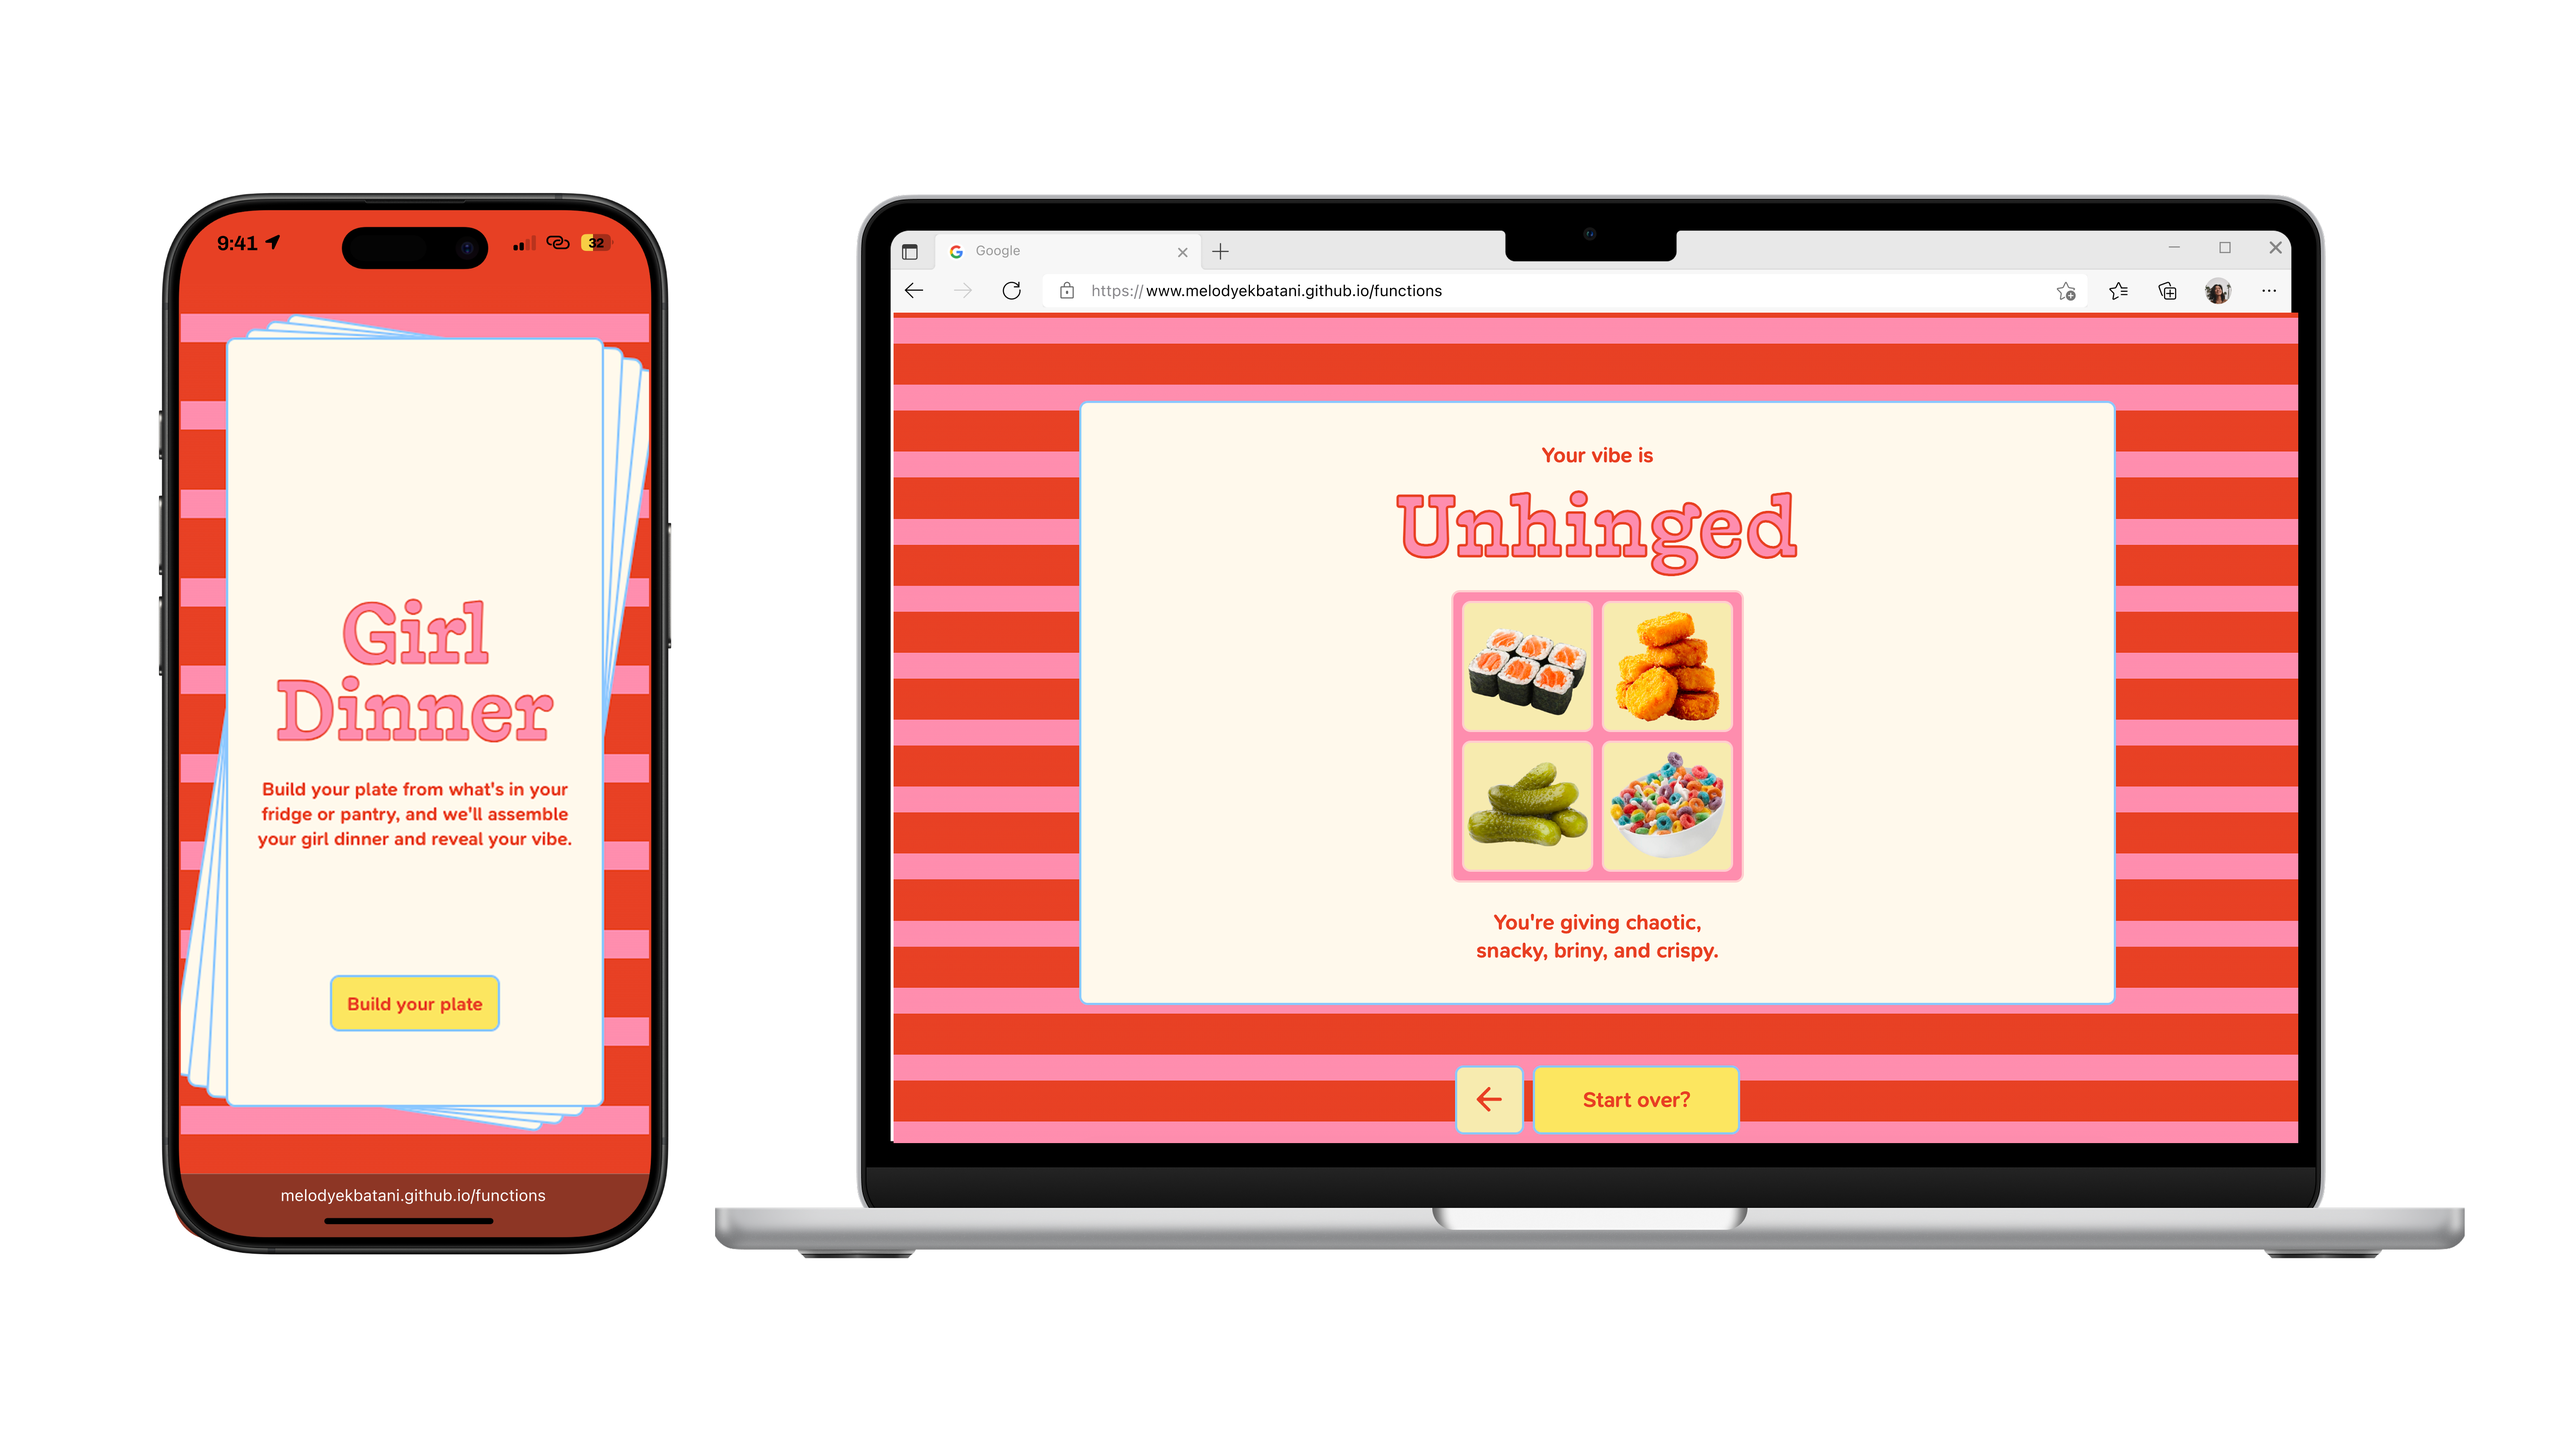
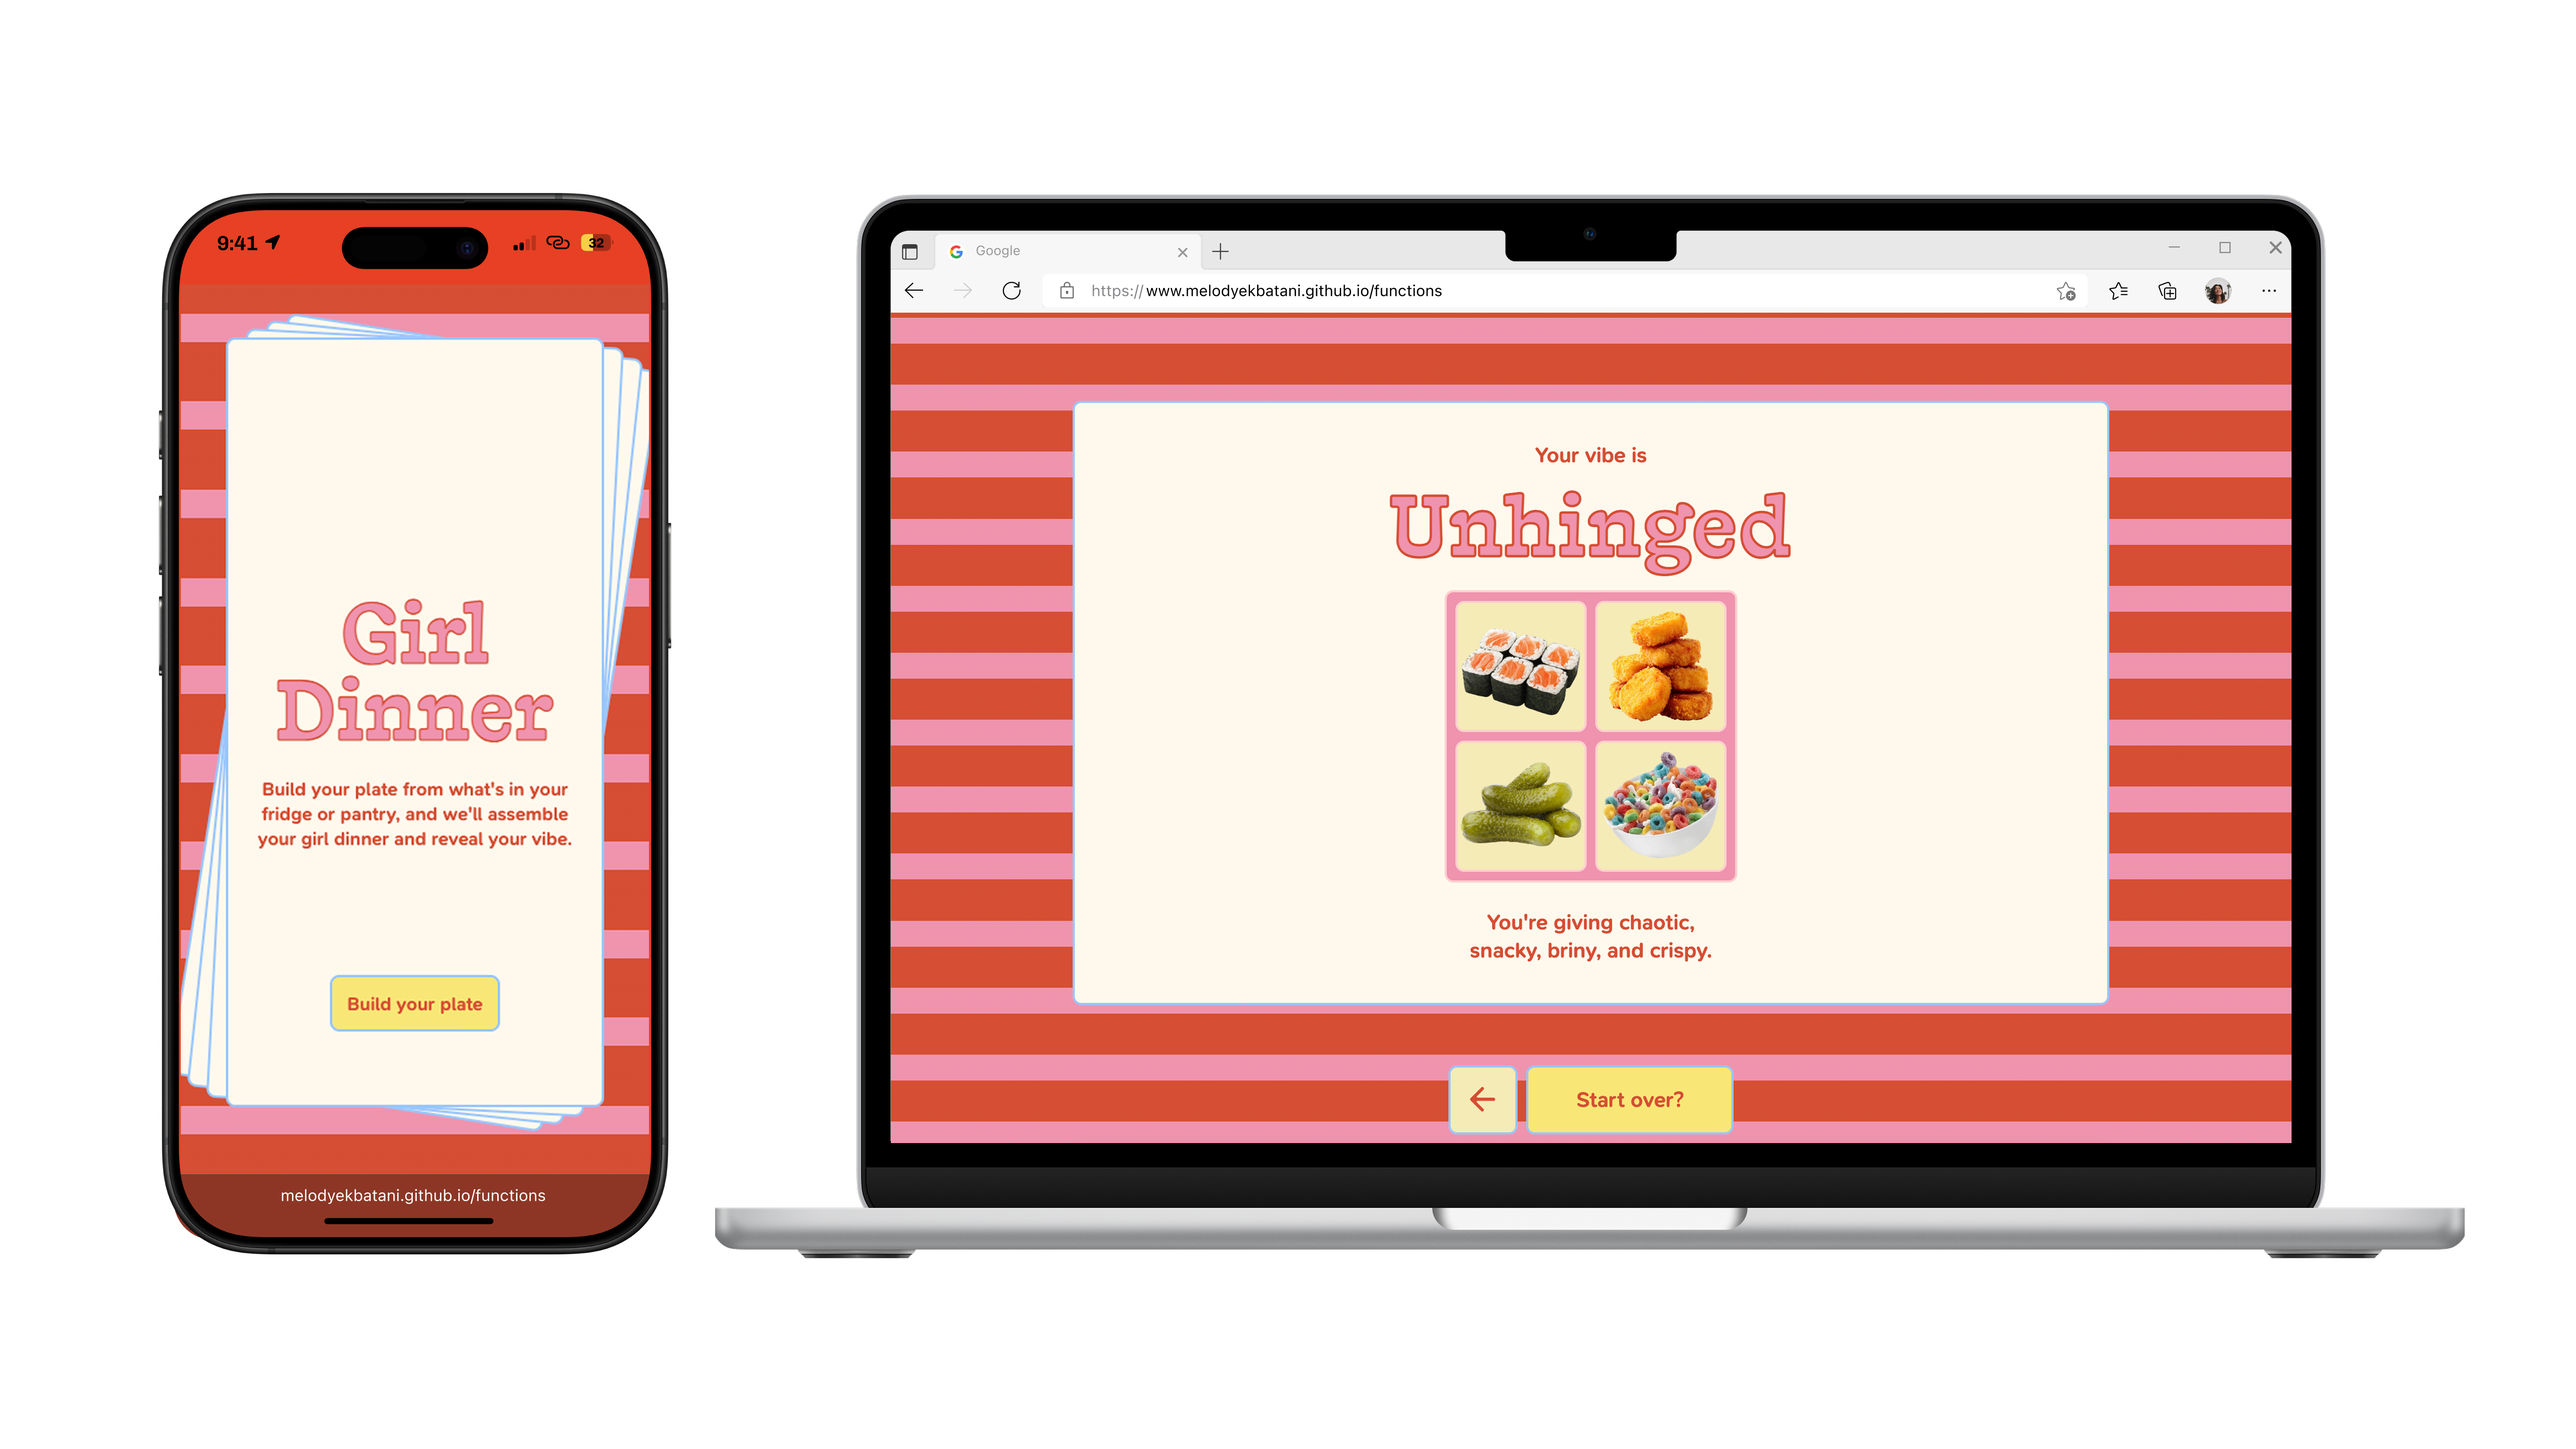
Clean up

diff --git a/index.html b/index.html
@@ -8,12 +8,11 @@
 		<link href="/Icons/Favicon.svg" rel="icon" type="image/svg+xml">
 		<link href="/Icons/Touch.png" rel="apple-touch-icon">
 		<meta property="description"
-			content="Hand-coded projects created in the MPS Communication Design program at Parsons School of Design using HTML, CSS, and JavaScript, exploring responsive typography and interactive web systems.">
+		content="Coded projects created in the MPS Communication Design program at Parsons School of Design using HTML, CSS, and JavaScript, exploring typography and interactive web systems.">
 		<meta name="viewport" content="width=device-width, initial-scale=1">
 
 		<meta content="https://melodyekbatani.github.io/Icons/Preview.png" property="og:image">
-		<meta content="Melody Ekbatani, Index · Typography and Interaction." property="og:image:alt">
-
+		<meta content="Melody Ekbatani, Index - Typography and Interaction." property="og:image:alt">
 
 		<link href="reset.css" rel="stylesheet">
 		<link href="style.css" rel="stylesheet">
@@ -23,15 +22,14 @@
 		<link rel="preconnect" href="https://fonts.googleapis.com">
 		<link rel="preconnect" href="https://fonts.gstatic.com" crossorigin>
 		<link
-			href="https://fonts.googleapis.com/css2?family=Archivo:ital,wght@0,100..900;1,100..900&family=Geist:wght@100..900&display=swap"
-			rel="stylesheet">
+		href="https://fonts.googleapis.com/css2?family=Archivo:ital,wght@0,100..900;1,100..900&family=Geist:wght@100..900&display=swap"
+		rel="stylesheet">
 
 		<link rel="preconnect" href="https://fonts.googleapis.com">
 		<link rel="preconnect" href="https://fonts.gstatic.com" crossorigin>
 		<link
-			href="https://fonts.googleapis.com/css2?family=Archivo:ital,wght@0,100..900;1,100..900&family=Geist+Mono:wght@100..900&family=Geist:wght@100..900&display=swap"
-			rel="stylesheet">
-
+		href="https://fonts.googleapis.com/css2?family=Archivo:ital,wght@0,100..900;1,100..900&family=Geist+Mono:wght@100..900&family=Geist:wght@100..900&display=swap"
+		rel="stylesheet">
 	</head>
 
 	<body>
@@ -58,7 +56,7 @@
 					<a href="/functions">
 						<img src="/Images/Functions.png"></img>
 						<h2>Functions</h2>
-						<p>I created an interactive "girl dinner" generator that transforms ingredients into playful meal pairings and personality readings</p>
+						<p>Interactive "girl dinner" generator that transforms ingredients into playful meal pairings and personality readings</p>
 						<p class="view-project">View Functions</p>
 					</a>
 				</li>
@@ -82,7 +80,7 @@
 					<a href="/binding">
 						<img src="/Images/Binding.png"></img>
 						<h2>Binding</h2>
-						<p>Exploring typography as an organizing principle to examine how design rules shape visual outcomes built with HTML and CSS</p>
+						<p>Exploring typography as an organizing principle to examine how design rules shape visual outcomes </p>
 						<p class="view-project">View Binding</p>
 					</a>
 				</li>
@@ -90,7 +88,7 @@
 					<a href="/manuscript">
 						<img src="/Images/Manuscript.png"></img>
 						<h2>Manuscript</h2>
-						<p>Using a constrained color palette and a grid-driven typography as a structuring principal</p>
+						<p>Typesetting long form content on a webpage using a constrained color palette and a grid-driven structuring principal</p>
 						<p class="view-project">View Manuscript</p>
 					</a>
 				</li>

diff --git a/style.css b/style.css
@@ -59,7 +59,6 @@ body {
 	gap: var(--space-lg);
 	inline-size: 100%;
 	padding: var(--space-sm);
-
 	background-color: var(--color-background);
 }
 
@@ -179,7 +178,7 @@ main {
 	}
 }
 
-/* Media Query */
+/* Desktop */
 
 @media (width>768px) {
 
